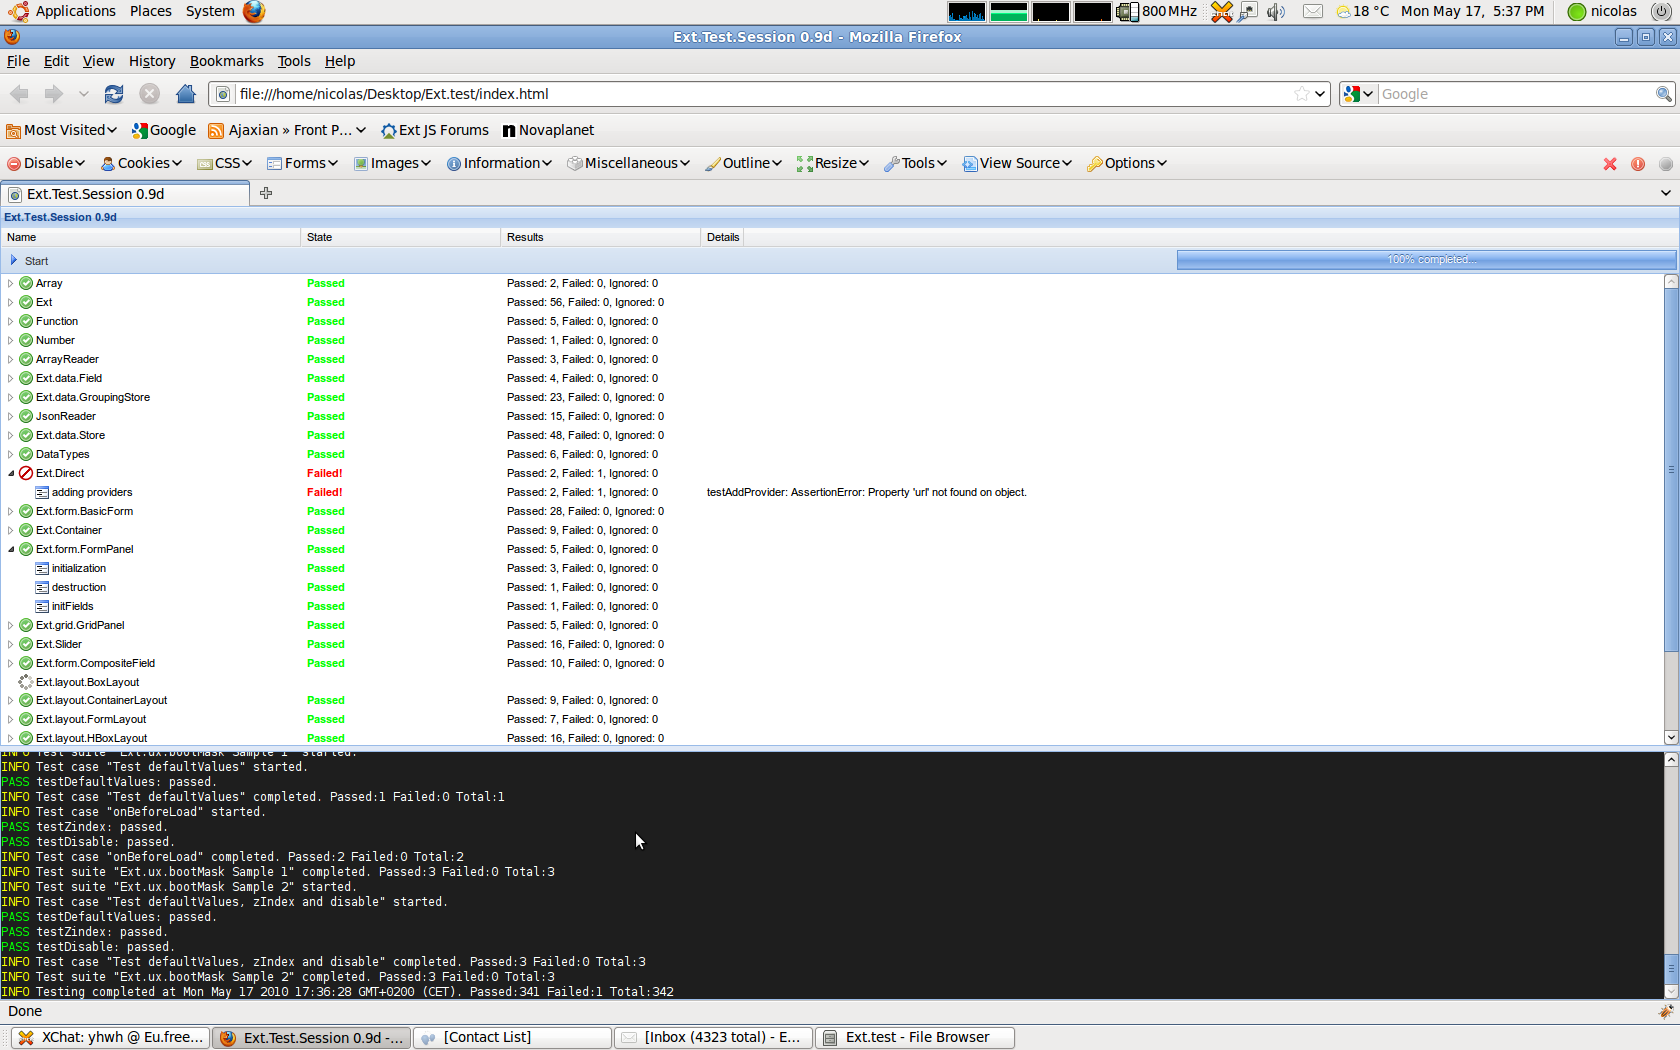
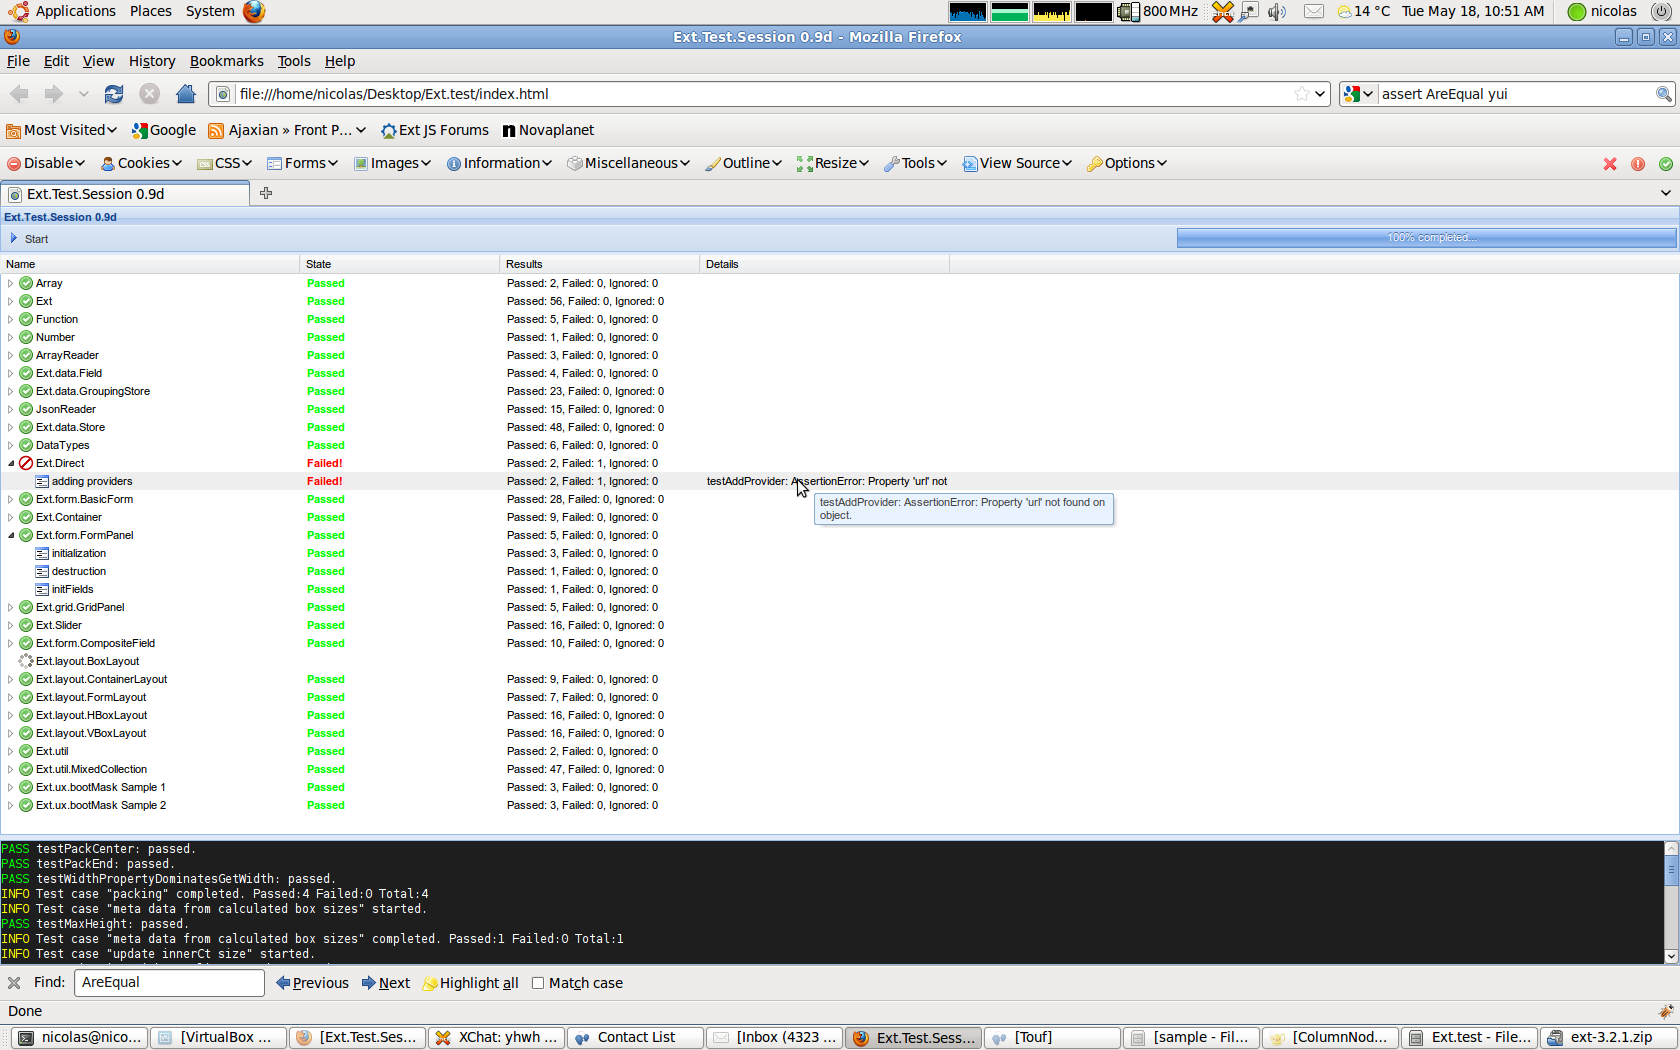
Version 0.9e * IE 6-8 Support * UI Fixes and enhancements

diff --git a/ext_test/ext_test_session.js b/ext_test/ext_test_session.js
@@ -5,8 +5,8 @@
  * without PieChart 
  * @singleton
  * @author  Nicolas FERRERO (aka yhwh) for Sylogix
- * @version 0.9d
- * @date	May 17, 2010
+ * @version 0.9e
+ * @date	May 18, 2010
  */
 Ext.test.session = {
     testCaseCount : 0
@@ -31,10 +31,11 @@ Ext.test.session = {
   }
   // Build Test Session interface
   , buildUI : function(){
+      Ext.QuickTips.init();
       var testViewport = new Ext.Viewport({
           layout: 'border'
         , items: [{
-                xtype       : 'columntree'
+                xtype       : 'columntreeplus'
               , region      : 'center'
               , useArrows   : true
               , header      : true
@@ -69,14 +70,14 @@ Ext.test.session = {
                   , header    : 'State'
                   , id        : 'state'
                   , renderer  : function(val) {
-                         var color = '#000';
-                          if (val == Ext.test.session.passText) {
-                              color = "#00FF00";
-                          }
-                          else if (val == Ext.test.session.failText) {
-                            color = '#FF0000';
-                          }
-                          return '<span style="color: '+color+'; font-weight: bold;">' + val + '</span>';
+                     var color = '#000';
+                      if (val == Ext.test.session.passText) {
+                          color = "#00FF00";
+                      }
+                      else if (val == Ext.test.session.failText) {
+                        color = '#FF0000';
+                      }
+                      return '<span style="color: '+color+';font-weight: bold;">' + val + '</span>';
                   }
                   , width     : 200
                 },{
@@ -88,6 +89,10 @@ Ext.test.session = {
                     dataIndex : 'details'
                   , id        : 'details'
                   , header    : 'Details'
+                  , width     : 250
+                  , renderer  : function(val) {
+                      return '<span ext:qtip="'+val+'">' + val + '</span>';
+                  }
               }]
           },{
               xtype       : 'panel'

diff --git a/ext_test/ColumnNodeUIPlus.js b/ext_test/ColumnNodeUIPlus.js
@@ -1,0 +1,60 @@
+Ext.ux.tree.ColumnTreePlus = Ext.extend(Ext.tree.ColumnTree, {
+    onRender : function(){
+        Ext.tree.ColumnTree.superclass.onRender.apply(this, arguments);
+        this.colheaders = this.bwrap.createChild({cls:'x-tree-headers'}, this.bwrap.dom.lastChild);
+
+        var cols = this.columns, c;
+
+        for(var i = 0, len = cols.length; i < len; i++){
+             c = cols[i];
+             this.colheaders.createChild({
+                 cls:'x-tree-hd ' + (c.cls?c.cls+'-hd':''),
+                 cn: {
+                     cls:'x-tree-hd-text',
+                     html: c.header
+                 },
+                 style: 'width:'+(c.width-this.borderWidth)+'px;'
+             });
+        }
+        this.colheaders.createChild({cls:'x-clear'});
+        // prevent floats from wrapping when clipped
+        this.colheaders.setWidth('auto');;
+    }
+});
+
+Ext.reg('columntreeplus', Ext.ux.tree.ColumnTreePlus);
+Ext.tree.ColumnTreePlus = Ext.ux.tree.ColumnTreePlus;
+
+Ext.ux.tree.ColumnNodeUIPlus = Ext.extend(Ext.ux.tree.ColumnNodeUI,{
+  refreshNode : function() {
+    var n = this.node;
+    if (!n.rendered){
+      return; 
+    }
+    var t = n.getOwnerTree();
+    var a = n.attributes;
+    var cols = t.columns;
+
+    var el = n.ui.getEl().firstChild;
+    
+    var cells = el.childNodes;
+    
+    for(var i = 1, len = cols.length; i < len; i++)
+    {
+        var d = cols[i].dataIndex;
+        var v = (a[d]!=null)? a[d] : '';
+        if (cols[i].renderer) v = cols[i].renderer(v);
+        cells[i].firstChild.innerHTML = v;        
+    }
+ }
+ , setIconElClass : function(className){
+     var n = this.node;
+     if (!n.rendered){
+      return; 
+     }
+     var iconEl = this.getIconEl();
+     iconEl.className = className;
+ }
+});
+
+Ext.tree.ColumnNodeUIPlus = Ext.ux.tree.ColumnNodeUIPlus;

diff --git a/sample/boot_mask_test.js b/sample/boot_mask_test.js
@@ -28,7 +28,7 @@ new Ext.test.testSuite({
         name : 'Test defaultValues'
        /* Test default class values */
       , testDefaultValues : function() {
-          Y.Assert.areEqual('11000', this.bootMask.zIndex, 'Test zIndex default value');
+          Y.Assert.areEqual(11000, this.bootMask.zIndex, 'Test zIndex default value');
       }
 	 },{
       /* testCase name */
@@ -38,7 +38,7 @@ new Ext.test.testSuite({
           this.bootMask.show();
           var mask = this.el.child('.ext-el-mask');
           var zindex = mask.getStyle('z-index');
-          Y.Assert.areSame(zindex, this.bootMask.zIndex, 'Test to ensure that global mask z-index is valid.');
+          Y.Assert.areEqual(zindex, this.bootMask.zIndex, 'Test to ensure that global mask z-index is valid.');
       }
       /* Test that mask is not created if bootMask is disabled */
       , testDisable : function(){
@@ -78,14 +78,14 @@ new Ext.test.testCase({
   }
   /* Test default class values */
   , testDefaultValues: function() {
-      Y.Assert.areEqual('11000', this.bootMask.zIndex, 'Test zIndex default value');
+      Y.Assert.areEqual(11000, this.bootMask.zIndex, 'Test zIndex default value');
   }
   /* Test if the setted zIndex after a bootMask show is valid */
   , testZindex : function(){
       this.bootMask.show();
       var mask = this.el.child('.ext-el-mask');
       var zindex = mask.getStyle('z-index');
-      Y.Assert.areSame(zindex, this.bootMask.zIndex, 'Test to ensure that global mask z-index is valid.');
+      Y.Assert.areEqual(zindex, this.bootMask.zIndex, 'Test to ensure that global mask z-index is valid.');
   }
   /* Test that mask is not created if bootMask is disabled */
   , testDisable : function(){

diff --git a/sample/boot_mask.js b/sample/boot_mask.js
@@ -8,7 +8,7 @@ Ext.ux.bootMask = Ext.extend(Ext.LoadMask,{
     /**
      * @cfg {String} zIndex (defaults to 11000) the mask zIndex value
      */
-     zIndex: '11000'
+     zIndex: 11000
     // add zIndex support to mask
    , onBeforeLoad : function(){
         if(!this.disabled){

diff --git a/ext_test/default.css b/ext_test/default.css
@@ -33,6 +33,7 @@
   padding:0;
   vertical-align:top;
   width:16px;
+  line-height:18px;
 }
 
 .testsuite-passed {
@@ -48,3 +49,10 @@
 }
 
 /* end of  treenode icon style */
+
+/* ColumnNodeUI css fix */
+
+.x-tree-col {
+    height: 18px;
+}
+/* end of ColumnNodeUI css fix */

diff --git a/ext_test/ext_test_testsuite.js b/ext_test/ext_test_testsuite.js
@@ -3,8 +3,8 @@
  * TestSuite class
  * @extend Y.Test.Case
  * @author  Nicolas FERRERO (aka yhwh) for Sylogix
- * @version 0.9d
- * @date	May 17, 2010
+ * @version 0.9e
+ * @date	May 18, 2010
  */
 Ext.test.testSuite = Ext.extend(Y.Test.Suite,{
     defaults: {}

diff --git a/ext_test/ext_test_testcase.js b/ext_test/ext_test_testcase.js
@@ -3,8 +3,8 @@
  * TestCase class
  * @extend Y.Test.Case
  * @author  Nicolas FERRERO (aka yhwh) for Sylogix
- * @version 0.9d
- * @date	May 17, 2010
+ * @version 0.9e
+ * @date	May 18, 2010
  */
 Ext.test.testCase = Ext.extend(Y.Test.Case,{
   /**

diff --git a/index.html b/index.html
@@ -1,7 +1,7 @@
 <html xmlns="http://www.w3.org/1999/xhtml">
 	<head>
     <meta http-equiv="Content-Type" content="text/html; charset=utf-8">
-		<title>Ext.Test.Session 0.9d</title>
+		<title>Ext.Test.Session 0.9e</title>
 
 <!--
     EXTJS 3.2.1
